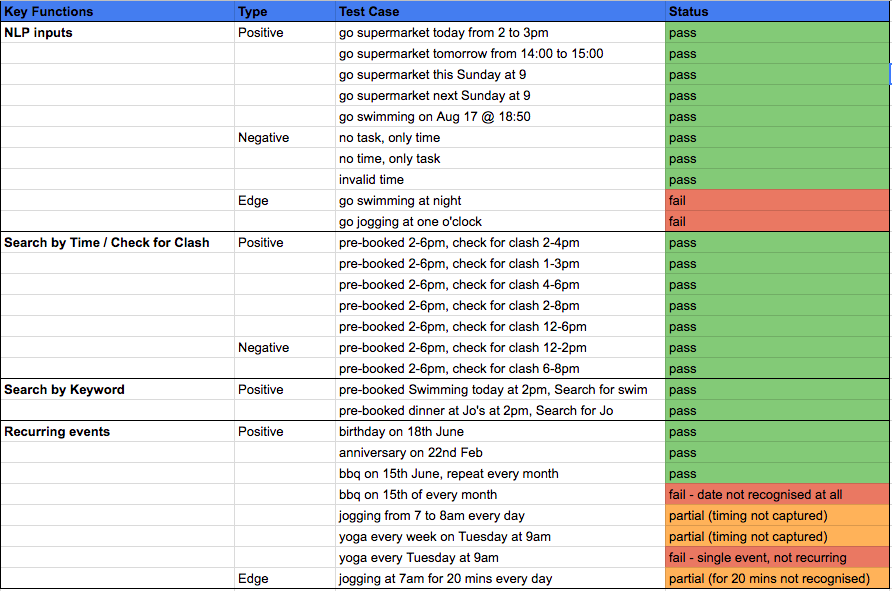
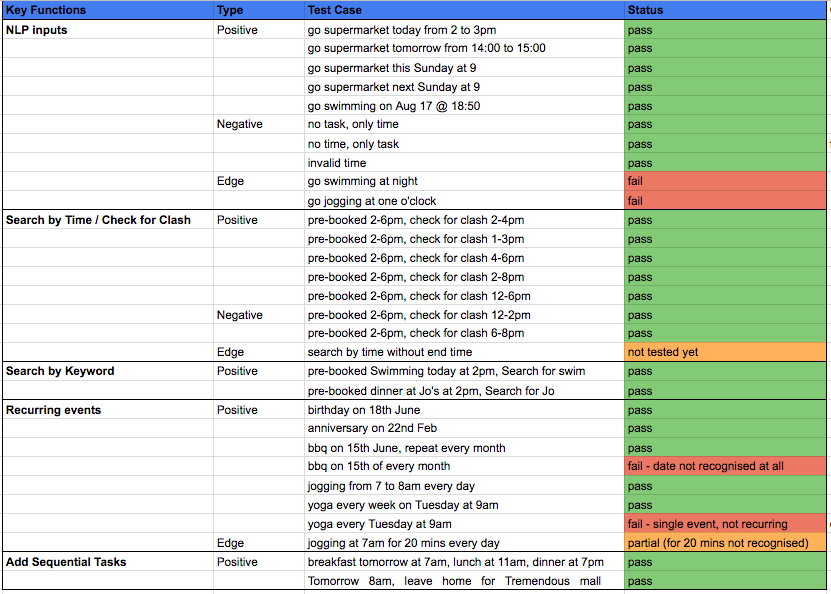
sequential task added

Changed region(s): [[0.0, 0.0, 1.0, 1.0]]

diff --git a/server/controllers/tempTaskFormController.js b/server/controllers/tempTaskFormController.js
@@ -4,6 +4,7 @@ const chrono = require('chrono-node')
 const notifier = require('node-notifier')
 
 let parsedForm
+let sequentialArr
 
 module.exports = {
   tempFormGet (req, res) {
@@ -22,10 +23,34 @@ module.exports = {
       .destroy({
         where: {userId: req.user.id}
       })
-      // creates a new parsedForm or resultArr if recurring event
+      // creates a new parsedForm or resultArr if recurring event or sequentialForm
       .then(() => {
         parsedForm = nlpMaster(req.body.nlp)
-        if (parsedForm) {
+        if (req.body.sequentialTask.filter(Boolean).length !== 0) {
+          let tempSequentialArr = []
+          if (!Array.isArray(req.body.sequentialTask)) {
+            tempSequentialArr.push(req.body.sequentialTask)
+          } else tempSequentialArr = req.body.sequentialTask
+          sequentialArr = []
+          let previousDate = new Date(parsedForm.scheduledStartDateTime).toDateString()
+          sequentialArr.push(parsedForm)
+
+          tempSequentialArr.forEach((e) => {
+            let sequentialTask = e + ' ' + previousDate
+            let sequentialForm = nlpMaster(sequentialTask)
+            sequentialArr.push(sequentialForm)
+          })
+
+          sequentialArr.forEach((e) => {
+            return tempTaskForm
+            .create({
+              title: e.title,
+              scheduledStartDateTime: e.scheduledStartDateTime,
+              scheduledEndDateTime: e.scheduledEndDateTime,
+              userId: req.user.id
+            })
+          })
+        } else if (parsedForm) {
           return tempTaskForm
           .create({
             title: parsedForm.title,
@@ -48,6 +73,7 @@ module.exports = {
       // checks for clashes to be displayed if singular event. recurring event is assumed to be created regardless
       .then(() => {
         if (parsedForm) {
+          console.log(`parsedForm ${parsedForm}`)
           return Task
             .findAll({ attributes: ['title', 'scheduledStartDateTime', 'scheduledEndDateTime'],
               where: {
@@ -80,8 +106,9 @@ module.exports = {
             })
               .then(clashTask => {
                 // next()
-                // res.send(clashTask)
-                res.render('task/formModal', {clashTask: clashTask, singleData: parsedForm})
+                // res.send(sequentialForm)
+                res.render('task/formModal', {clashTask: clashTask, singleData: parsedForm,
+                  sequentialData: sequentialArr})
               })
               .catch(error => res.status(400).send(error))
         } else res.redirect('/task/form')
@@ -199,6 +226,7 @@ module.exports = {
           temp.title = original.title
           resultsArr.push(temp)
         }
+        // else singular event
       } else {
         return nlpInput(userInput)
       }

diff --git a/public/css/bootstrap-datetimepicker.css b/public/css/bootstrap-datetimepicker.css
@@ -42,7 +42,7 @@
 	border-right: 7px solid transparent;
 	border-bottom: 7px solid #cccccc;
 	border-bottom-color: rgba(0, 0, 0, 0.2);
-	position: absolute;
+	position: relative;
 }
 
 [class*=" datetimepicker-dropdown"]:after {
@@ -51,7 +51,7 @@
 	border-left: 6px solid transparent;
 	border-right: 6px solid transparent;
 	border-bottom: 6px solid #ffffff;
-	position: absolute;
+	position: relative;
 }
 
 [class*=" datetimepicker-dropdown-top"]:before {

diff --git a/public/css/main.css b/public/css/main.css
@@ -1,7 +1,13 @@
 .container{
-  display: inline-flex;
+  display: flex;
+  max-width: 80%;
 }
-.left{
-width: 50%;}
-.right{
-width: 50%;}
+.leftDiv{
+max-width: 50%;
+margin-right: 5%;
+}
+.rightDiv{
+width: 50%;
+margin-left: 5%;
+
+}

diff --git a/public/js/script.js b/public/js/script.js
@@ -2,4 +2,5 @@ $(function () {
   $('.datetimepicker').datetimepicker({
     format: 'yyyy-mm-dd hh:ii'
   })
+  // $('.sequentialTask').css('display', 'none')
 })
